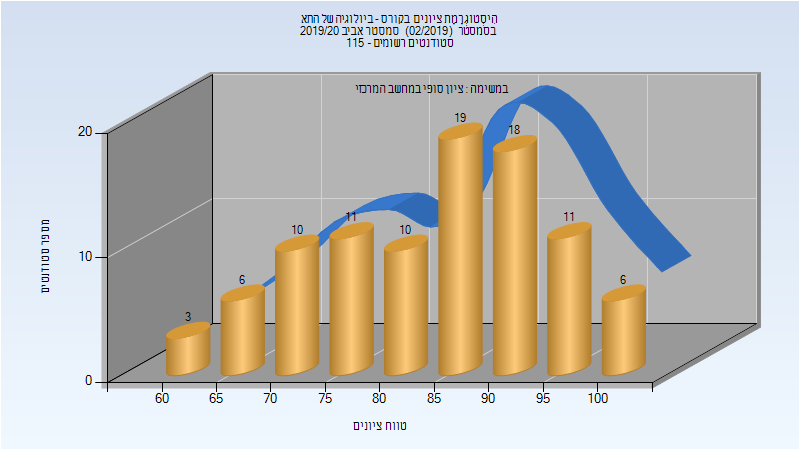
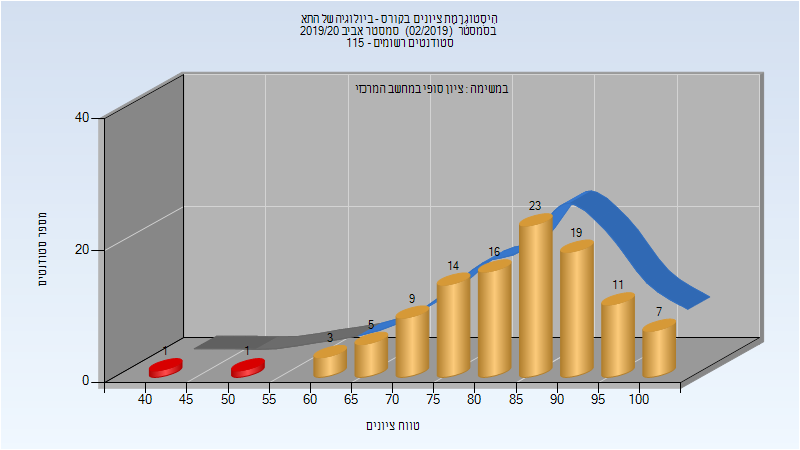
Deploy michael-maltsev/technion-histograms to github.com/michael-maltsev/technion-histograms.git:gh-pages

diff --git a/274167/index.html b/274167/index.html
@@ -444,6 +444,32 @@
 </tr>
 </tbody>
 </table>
+<h3>סופי מועד ב'</h3>
+<p><img src="201902/Final_B.png" alt="201902 Final_B" /></p>
+<table>
+<thead>
+<tr>
+<th>סטודנטים</th>
+<th>עברו/נכשלו</th>
+<th>אחוז עוברים</th>
+<th>ציון מינימלי</th>
+<th>ציון מקסימלי</th>
+<th>ממוצע</th>
+<th>חציון</th>
+</tr>
+</thead>
+<tbody>
+<tr>
+<td>22</td>
+<td>20/2</td>
+<td>91</td>
+<td>43</td>
+<td>100</td>
+<td>78.409</td>
+<td>81.5</td>
+</tr>
+</tbody>
+</table>
 <h3>סופי</h3>
 <p><img src="201902/Finals.png" alt="201902 Finals" /></p>
 <table>
@@ -460,13 +486,13 @@
 </thead>
 <tbody>
 <tr>
-<td>101</td>
-<td>94/7</td>
-<td>93</td>
-<td>62</td>
+<td>110</td>
+<td>107/3</td>
+<td>97</td>
+<td>43</td>
 <td>100</td>
-<td>84.553</td>
-<td>86</td>
+<td>84.138</td>
+<td>85</td>
 </tr>
 </tbody>
 </table>

diff --git a/274166/index.html b/274166/index.html
@@ -390,13 +390,13 @@
 </thead>
 <tbody>
 <tr>
-<td>101</td>
-<td>101/0</td>
+<td>104</td>
+<td>104/0</td>
 <td>100</td>
 <td>57</td>
 <td>100</td>
-<td>89.465</td>
-<td>92</td>
+<td>89.452</td>
+<td>91.5</td>
 </tr>
 </tbody>
 </table>

diff --git a/274143/index.html b/274143/index.html
@@ -118,7 +118,7 @@
 </thead>
 <tbody>
 <tr>
-<td>ריסקין אריה</td>
+<td>קאפמן מיכאל</td>
 <td>מרצה - אחראי מקצוע</td>
 </tr>
 <tr>

diff --git a/274167/README.md b/274167/README.md
@@ -132,11 +132,19 @@
 | ---- | ---- | ---- | ---- | ---- | ---- | ---- |
 | 22 | 20/2 | 91 | 43 | 100 | 75 | 77 |
 
+### סופי מועד ב'
+
+![201902 Final_B](201902/Final_B.png)
+
+| סטודנטים | עברו/נכשלו | אחוז עוברים | ציון מינימלי | ציון מקסימלי | ממוצע | חציון |
+| ---- | ---- | ---- | ---- | ---- | ---- | ---- |
+| 22 | 20/2 | 91 | 43 | 100 | 78.409 | 81.5 |
+
 ### סופי
 
 ![201902 Finals](201902/Finals.png)
 
 | סטודנטים | עברו/נכשלו | אחוז עוברים | ציון מינימלי | ציון מקסימלי | ממוצע | חציון |
 | ---- | ---- | ---- | ---- | ---- | ---- | ---- |
-| 101 | 94/7 | 93 | 62 | 100 | 84.553 | 86 |
+| 110 | 107/3 | 97 | 43 | 100 | 84.138 | 85 |
 

diff --git a/274143/README.md b/274143/README.md
@@ -31,7 +31,7 @@
 
 | איש סגל | תפקיד |
 | ---- | ---- |
-| ריסקין אריה | מרצה - אחראי מקצוע |
+| קאפמן מיכאל | מרצה - אחראי מקצוע |
 | רובין אלאד | סגל מנהלי - עם הרשאות מרצה אחראי |
 | שפורן שירי | סגל מנהלי - עם הרשאות מרצה אחראי |
 | כהן שרית | סגל מנהלי - עם הרשאות מרצה אחראי |

diff --git a/274166/README.md b/274166/README.md
@@ -116,5 +116,5 @@
 
 | סטודנטים | עברו/נכשלו | אחוז עוברים | ציון מינימלי | ציון מקסימלי | ממוצע | חציון |
 | ---- | ---- | ---- | ---- | ---- | ---- | ---- |
-| 101 | 101/0 | 100 | 57 | 100 | 89.465 | 92 |
+| 104 | 104/0 | 100 | 57 | 100 | 89.452 | 91.5 |
 
